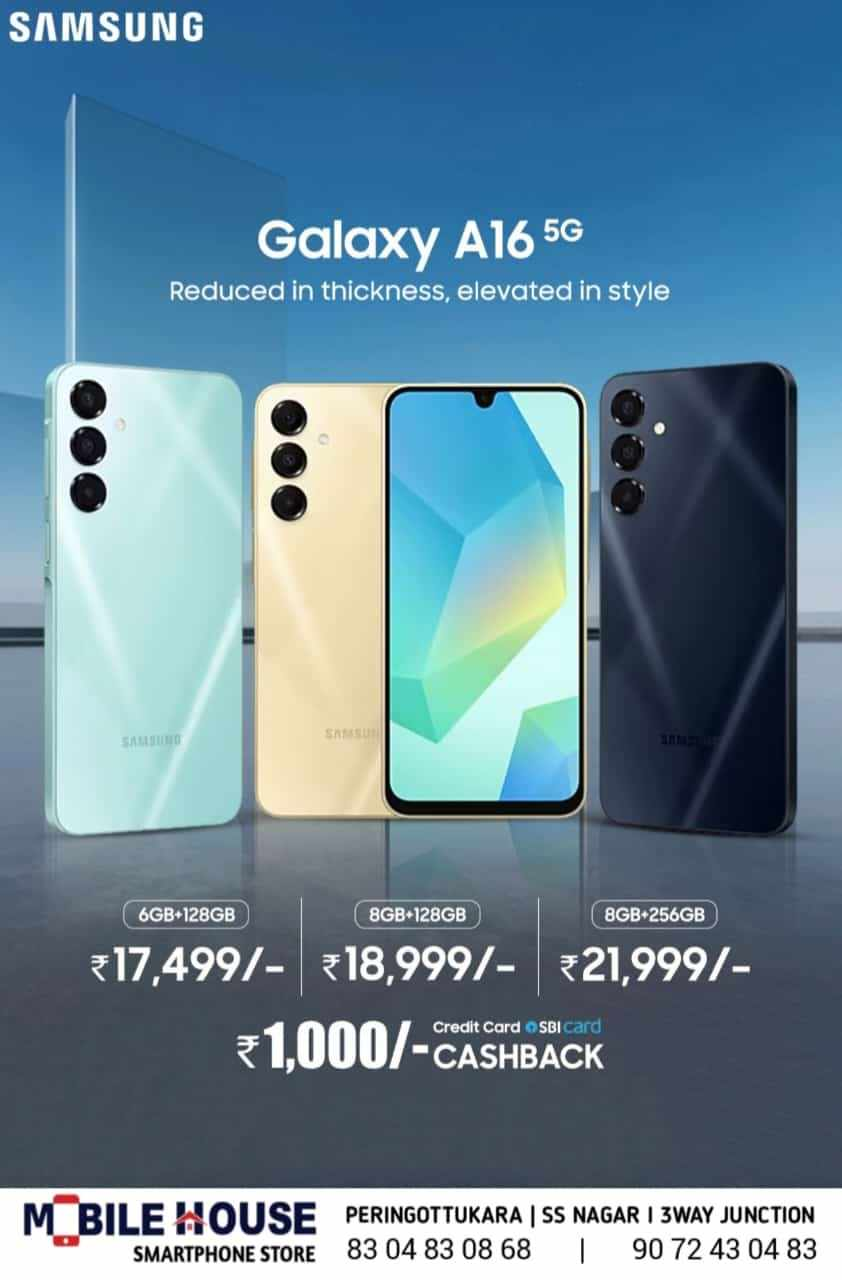
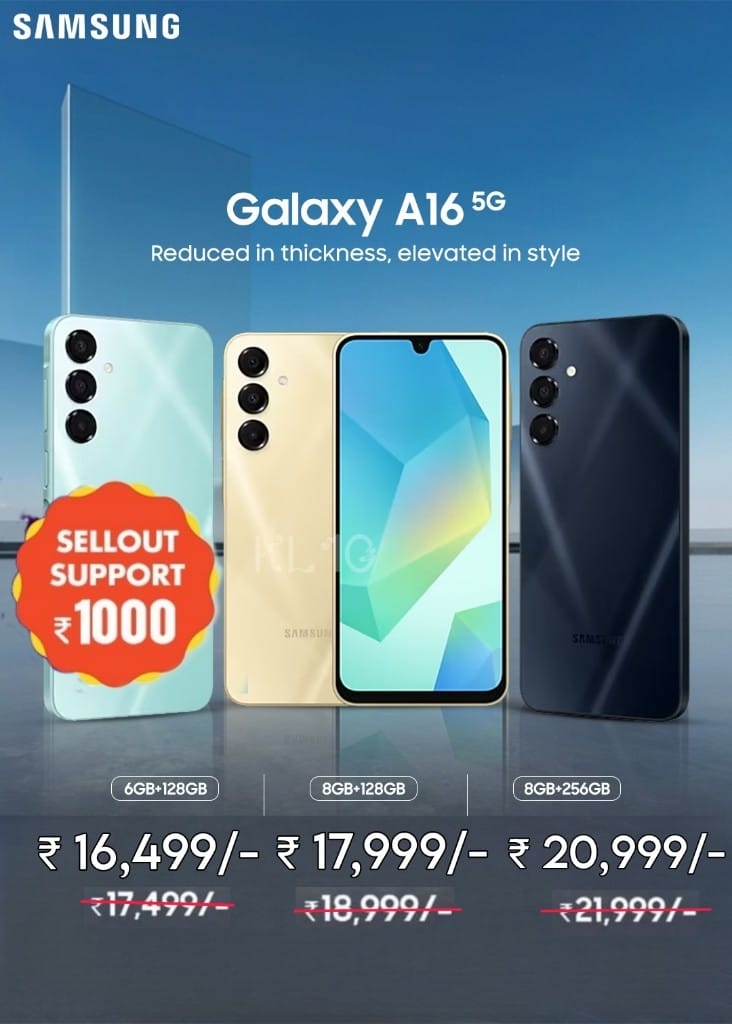
updates

diff --git a/src/components/Home/footer.tsx b/src/components/Home/footer.tsx
@@ -1,5 +1,7 @@
 import DynamicMuiIcon from "utils/dynamicMuiIcon";
 import SocialMediaItems from "constants/socialMediaItems";
+import { NAVIGATIONITEMS } from "constants/navigationItems";
+import { Link } from "react-router-dom";
 
 const Footer = () => {
   const companyDetails = (title: String, content: any, icon: any) => (
@@ -11,7 +13,7 @@ const Footer = () => {
         <div className="flex flex-col space-y-2">
           <h1 className="uppercase text-white my-1">{title}</h1>
           <div
-            className="text-gray-400 text-sm"
+            className=" text-sm"
             dangerouslySetInnerHTML={{ __html: content }}
           ></div>
         </div>
@@ -20,9 +22,9 @@ const Footer = () => {
   );
 
   return (
-    <div className=" justify-between block md:flex  w-full relative  left-0 text-white p-1 md:p-3">
-      <div className="w-full md:w-1/2 flex flex-col space-y-3 md:space-y-0 space-x-0 md:space-x-1 items-start md:items-center justify-center  bg-black p-3">
-        <div className="space-y-2">
+    <div className=" block md:flex justify-between bg-gray-700 p-2 md:p-5 text-white">
+      <div className="  block space-y-3 md:space-y-0 space-x-0 md:space-x-1 items-start font-light  ">
+        <div className="space-y-4">
           {companyDetails(
             "phone",
             `<h1 >
@@ -42,15 +44,28 @@ const Footer = () => {
             "LocationOn"
           )}
         </div>
-        <div className="flex space-x-4 mt-5 ml-6 py-3 ">
+        <div className="flex space-x-4 mt-5 ml-10 md:ml-0 py-4 items-center text-sm md:text-lg ">
           {SocialMediaItems?.map((item: any) => (
             <a key={item?.name} href={item?.link}>
               <DynamicMuiIcon key={item?.name} iconName={item.icon} />
             </a>
           ))}
+          <a
+            className="w-full md:w-1/2 "
+            href="https://maps.app.goo.gl/fXMgtGiJXBZQ1Jh86?g_st=ac"
+            target="_blank"
+          >
+            <DynamicMuiIcon iconName={"RoomOutlined"} />
+          </a>
         </div>
       </div>
-      <a
+
+      <div className=" flex-col items-center hidden md:flex">
+        <h1 className="italic text-[50px]">Mobile House</h1>
+        <h1 className="italic text-2xl">Sales & Service</h1>
+      </div>
+
+      {/* <a
         className="w-full md:w-1/2 "
         href="https://maps.app.goo.gl/fXMgtGiJXBZQ1Jh86?g_st=ac"
         target="_blank"
@@ -59,7 +74,23 @@ const Footer = () => {
           className="w-full h-48 md:h-full pointer-events-none"
           src="https://maps.google.com/maps?width=100%25&amp;height=600&amp;hl=en&amp;q=C48P+F5%20Peringottukara,%20Kerala,%20India+(Mobile%20House)&amp;t=&amp;z=14&amp;ie=UTF8&amp;iwloc=B&amp;output=embed"
         ></iframe>
-      </a>
+      </a> */}
+      <div className=" space-y-3 hidden md:flex flex-col">
+        <h1 className="text-lg md:text-2xl font-semibold">Links</h1>
+        {NAVIGATIONITEMS?.map((navigation) => {
+          return (
+            <div className="block  " key={navigation?.title}>
+              <Link
+                className=" font-light   flex space-x-2 items-center"
+                to={navigation?.link}
+              >
+                {/* <div className="">{navigation?.icon}</div> */}
+                <h1 className=" text-sm">{navigation?.title}</h1>
+              </Link>
+            </div>
+          );
+        })}
+      </div>
     </div>
   );
 };

diff --git a/src/constants/allPhone.ts b/src/constants/allPhone.ts
@@ -1650,7 +1650,7 @@ export const ALLPHONES = [
     series: "A165G",
     image: SAMSUNGA165GGOLD1,
     launchDate: "07-10-2024",
-    salesPrice: 17499,
+    salesPrice: 16499,
     specialOffer: false,
     trendingPhone: true,
     rating: 4.7,
@@ -1676,8 +1676,8 @@ export const ALLPHONES = [
     series: "A165G",
     image: SASMSUNGA165GBLUEBLACK1,
     launchDate: "07-10-2024",
-    salesPrice: 18999,
-    specialOffer: false,
+    salesPrice: 17999,
+    specialOffer: true,
     trendingPhone: false,
     rating: 4.7,
     newArrival: true,
@@ -1702,7 +1702,7 @@ export const ALLPHONES = [
     series: "A165G",
     image: SAMSUNGA165GGOLD1,
     launchDate: "07-10-2024",
-    salesPrice: 21999,
+    salesPrice: 20999,
     specialOffer: false,
     trendingPhone: false,
     rating: 4.7,

diff --git a/src/pages/home/index.tsx b/src/pages/home/index.tsx
@@ -14,7 +14,7 @@ const ProductMiniList = React.lazy(
 const WhatsappAds = React.lazy(() => import("components/Home/whatsappAds"));
 const Banner = React.lazy(() => import("components/Home/banner"));
 const Footer = React.lazy(() => import("components/Home/footer"));
-const OurServices = React.lazy(() => import("components/Home/ourServices"));
+// const OurServices = React.lazy(() => import("components/Home/ourServices"));
 
 const HomePage = () => {
   return (
@@ -47,7 +47,7 @@ const HomePage = () => {
               link="/newArrival"
             />
           </div>
-          <OurServices />
+          {/* <OurServices /> */}
           <Footer />
         </Suspense>
       </div>
